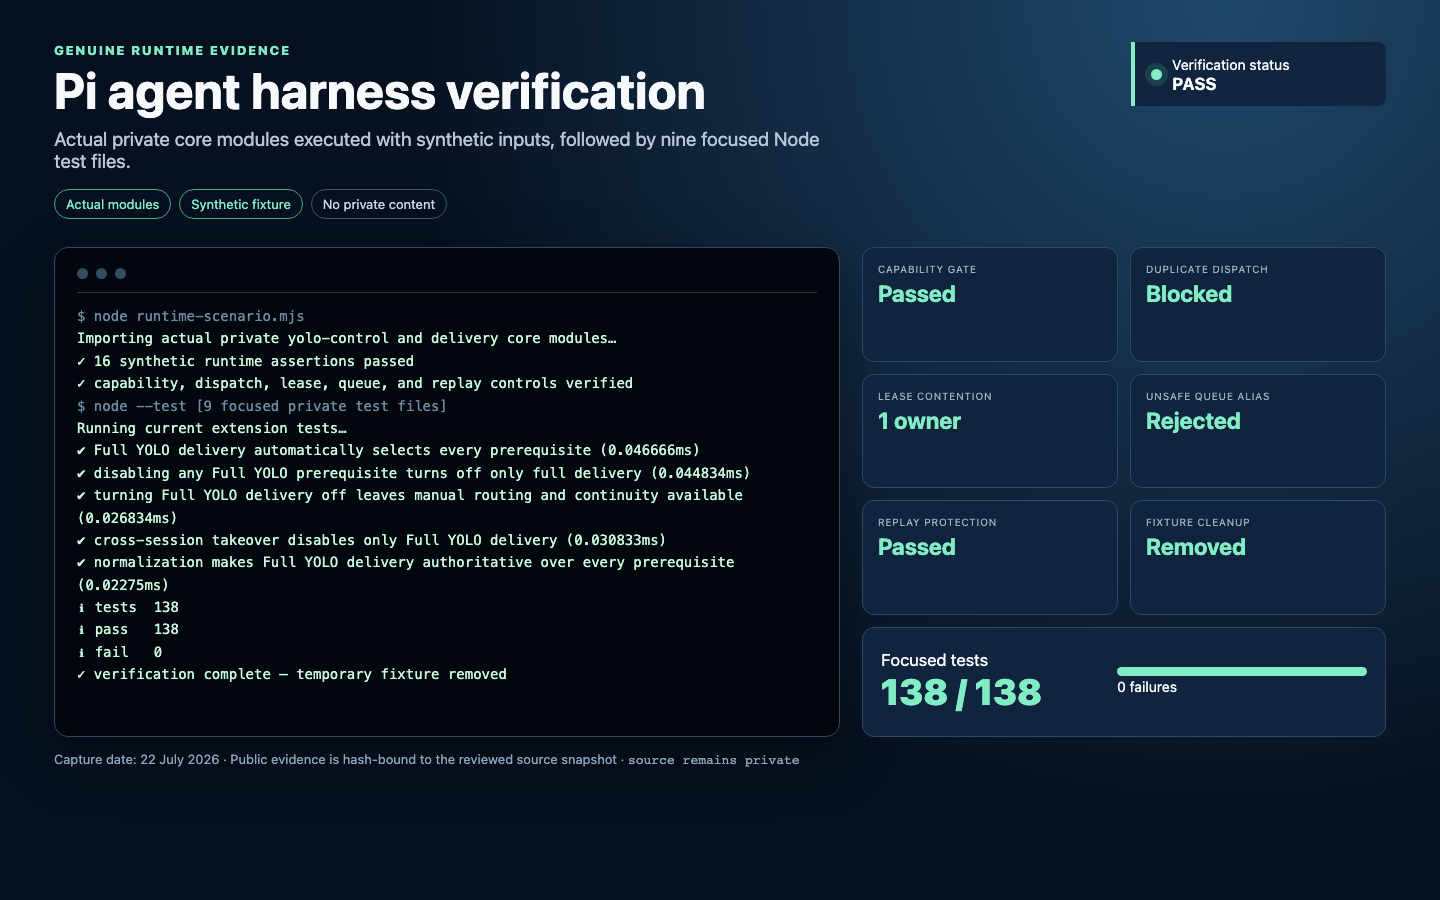
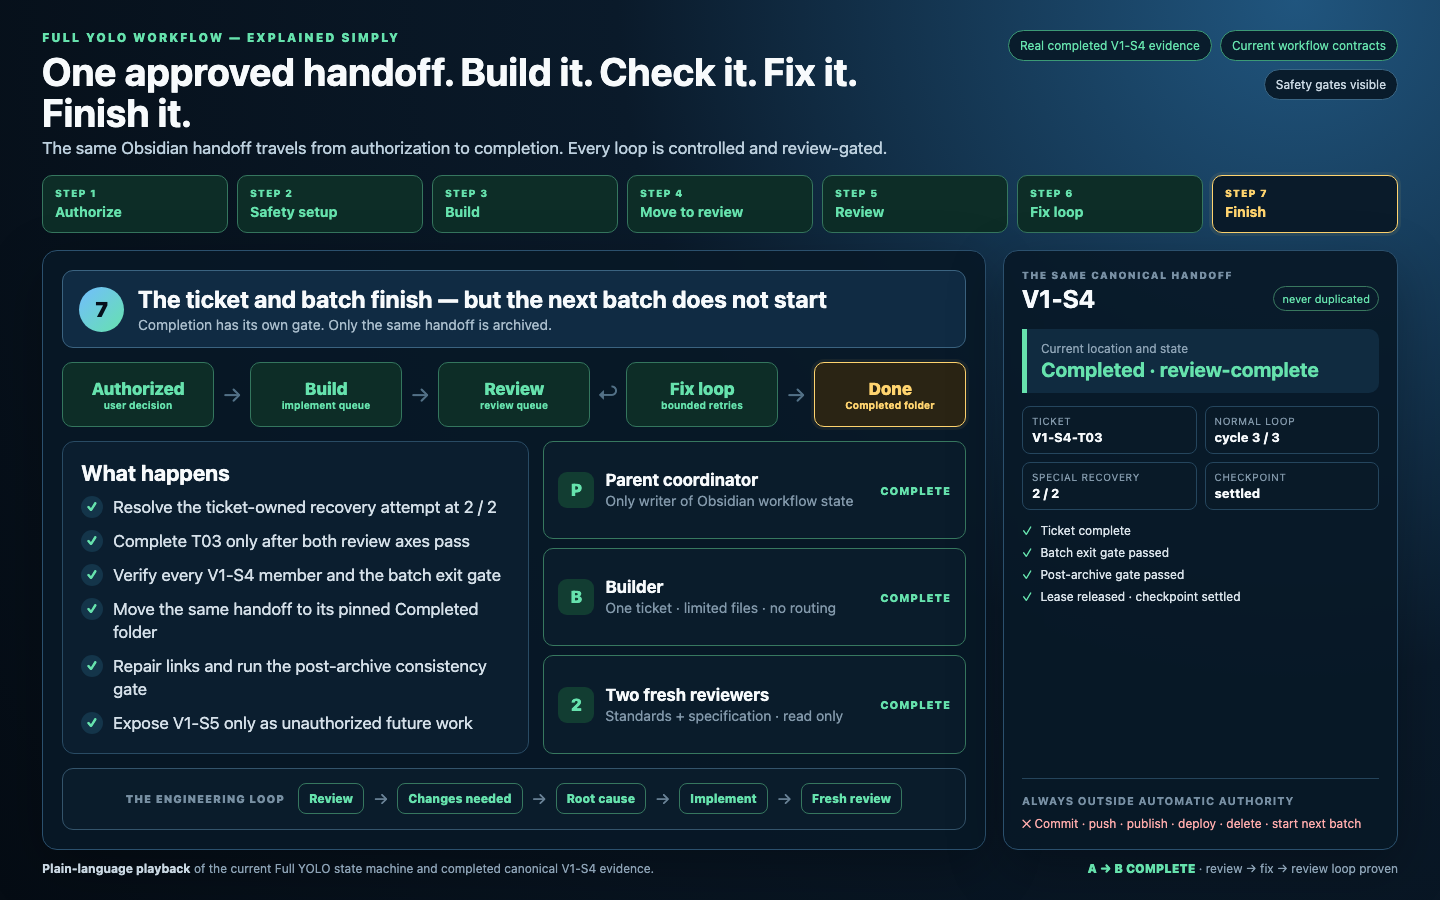
Make the Full YOLO workflow easier to follow

diff --git a/index.html b/index.html
@@ -34,7 +34,7 @@
 
     <div class="grid">
       <article class="card">
-        <img class="project-thumb" src="assets/pi-agent-harness.png" alt="Pi agent harness runtime verification showing passed controls and 138 of 138 tests">
+        <img class="project-thumb" src="assets/pi-agent-harness.png" alt="Plain-language Full YOLO workflow from authorized handoff through build, review, fix loop, and completion">
         <div class="card-body">
           <h3>Pi agent harness</h3>
           <p>A governed delivery layer for coding agents: explicit authority, deterministic phases, cross-process coordination, bounded remediation, and fail-closed safety.</p>

diff --git a/projects/pi-agent-harness.html b/projects/pi-agent-harness.html
@@ -58,7 +58,7 @@
         <source src="../evidence/pi-agent-harness/full-yolo-workflow.webm" type="video/webm">
         Your browser cannot play the WebM video. <a href="../evidence/pi-agent-harness/full-yolo-workflow.webm">Download the Full YOLO workflow recording</a>.
       </video>
-      <p class="caption">29 seconds · current Full YOLO state machine · completed V1-S4 canonical evidence · parent-owned Obsidian routing · bounded implementation phase · fresh Standards + Spec review axes · post-block attempt 2/2 resolved · no commit or next-batch authorization.</p>
+      <p class="caption">37 seconds · plain-language A-to-B playback of the current Full YOLO state machine · completed V1-S4 canonical evidence · parent-owned Obsidian routing · bounded implementation phase · fresh Standards + Spec review axes · post-block attempt 2/2 resolved · no commit or next-batch authorization.</p>
     </div>
 
     <div class="evidence-grid" id="behavior-evidence">

diff --git a/evidence/pi-agent-harness/runtime-evidence.md b/evidence/pi-agent-harness/runtime-evidence.md
@@ -19,7 +19,7 @@
 
 ## Contract-accurate Full YOLO workflow playback
 
-The 29-second WebM mirrors the current reviewed Full YOLO delivery contract instead of presenting a simplified generic agent sequence. It combines the current hash-pinned prepare, dispatcher, implementation, review, coordination, and safety contracts with bounded evidence from the completed canonical Obsidian V1-S4 execution-batch handoff.
+The 37-second WebM mirrors the current reviewed Full YOLO delivery contract instead of presenting a simplified generic agent sequence. It combines the current hash-pinned prepare, dispatcher, implementation, review, coordination, and safety contracts with bounded evidence from the completed canonical Obsidian V1-S4 execution-batch handoff.
 
 The visible lifecycle is:
 
@@ -97,8 +97,8 @@ e8dbaccf805e340dc6c42106c6d34980287404c40e6883e68b4b9317e03d7c84  runtime-behavi
 e5601037f4fc5b31819ee5b9537f81990d2e56c21c5d8395f996ac11cb71396e  pi-extension-tests.txt
 736ceb0bee5ededa3e5142b37ae37040cd2b7c8750a5600ba797d4c9c1c05c7e  pi-agent-harness-runtime.webm
 f1a9ecc0959f6c29781c6435eb76503789808f0743e016a584af28a6b361ca62  pi-runtime-poster.png
-71936e63ec580f49b37a41f642626df2194b701cdd7e996cf6554183ce66b3a5  full-yolo-workflow.webm
-3efa23c67786cb35492909c6aa31d7a320e9b630cd8b9527ecc896c01a8d1320  full-yolo-workflow-poster.png
+3c716de30b54e9f8d5a9d1e6f7f143032ee382e70909563435bdd42b5d0cdd1d  full-yolo-workflow.webm
+8b8ee28d448e8b8c14fee0636c40981f5ebe7681945d9eb7681e7264b898d717  full-yolo-workflow-poster.png
 19b8a520fe5ff55a2599d9baa620b8b89d4de6c20feb446359f4c5539a43b280  full-yolo-workflow-result.json
 ```
 